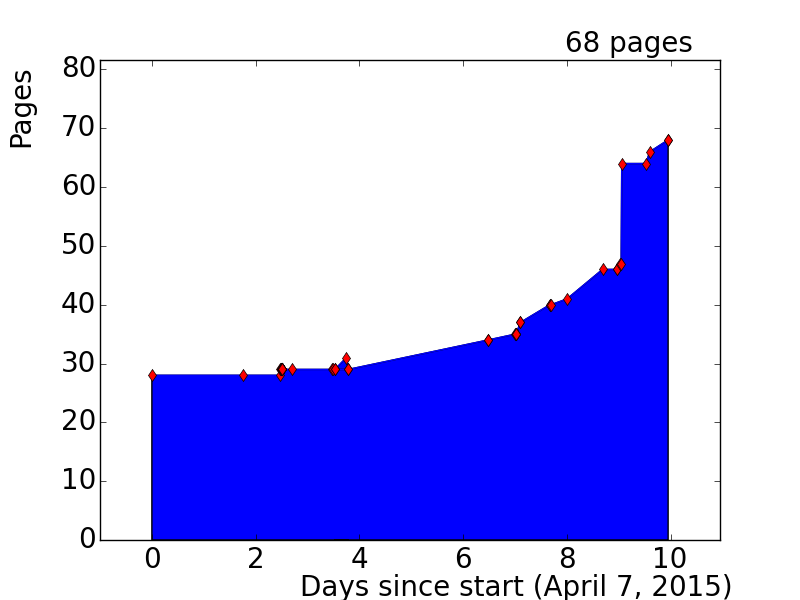
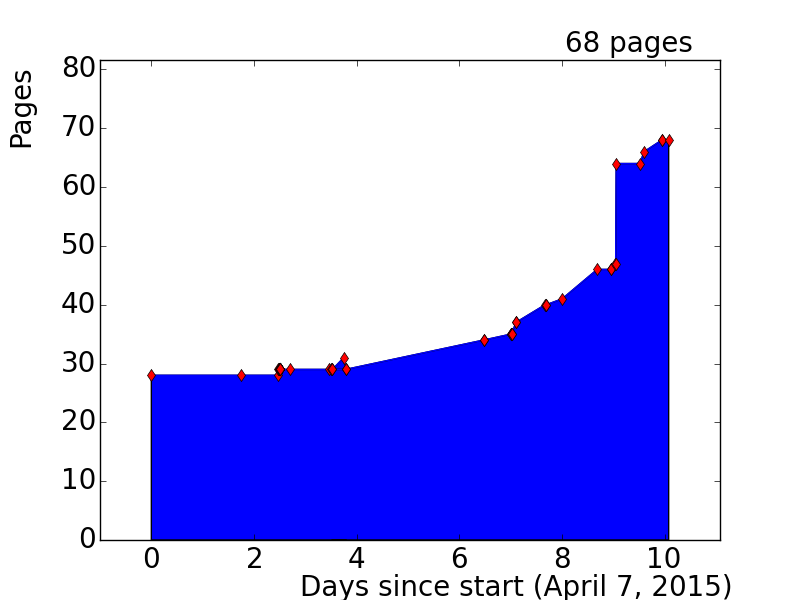
Started MI lepton defs

diff --git a/pages.md b/pages.md
@@ -45,3 +45,4 @@
 + [2015-04-16-14h23m41s] 66
 + [2015-04-16-22h47m46s] 68
 + [2015-04-16-22h53m02s] 68
++ [2015-04-17-01h57m15s] 68
